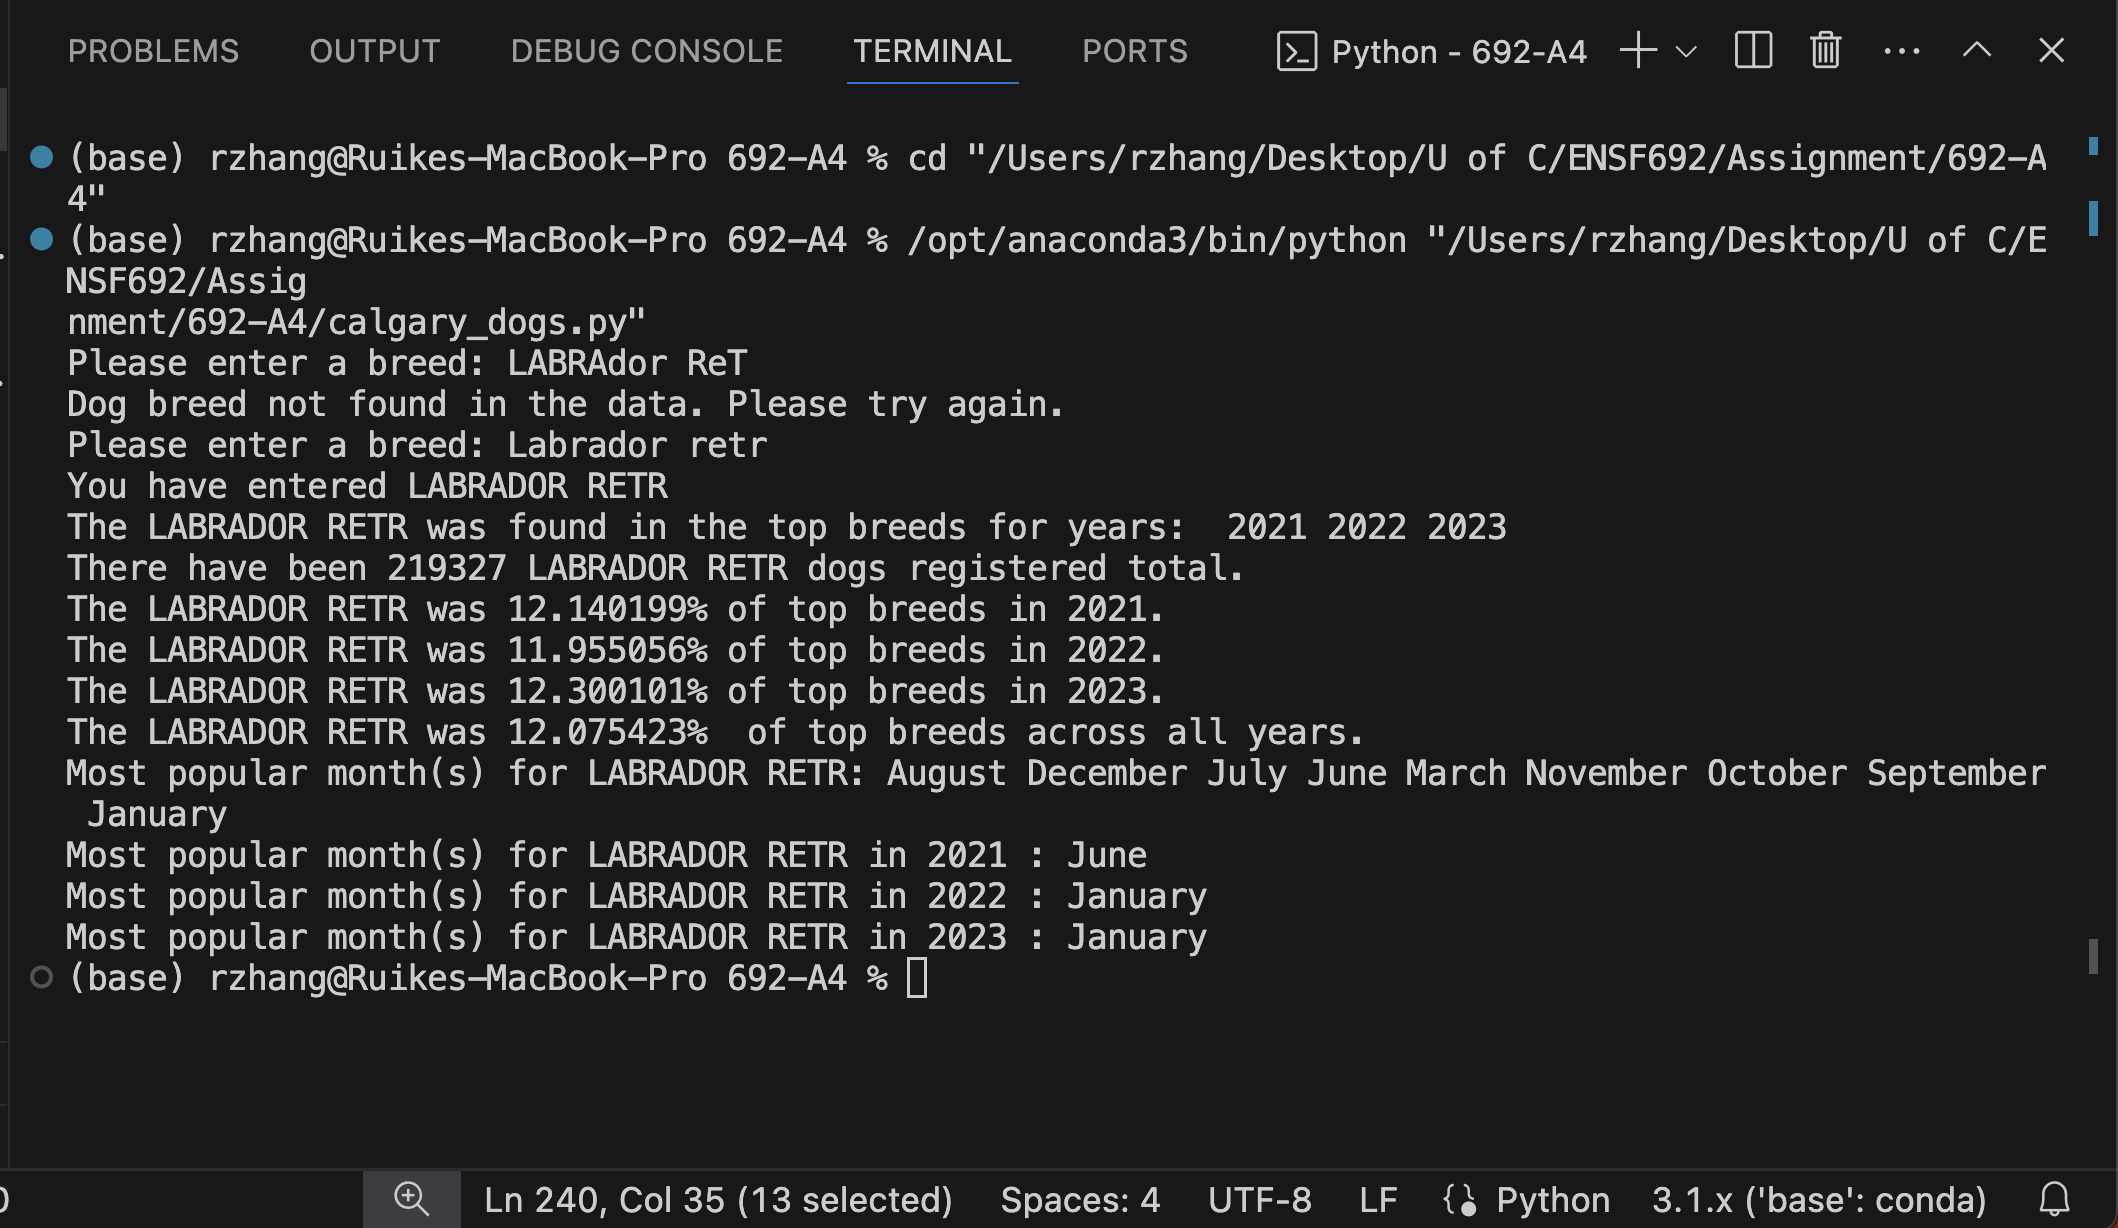
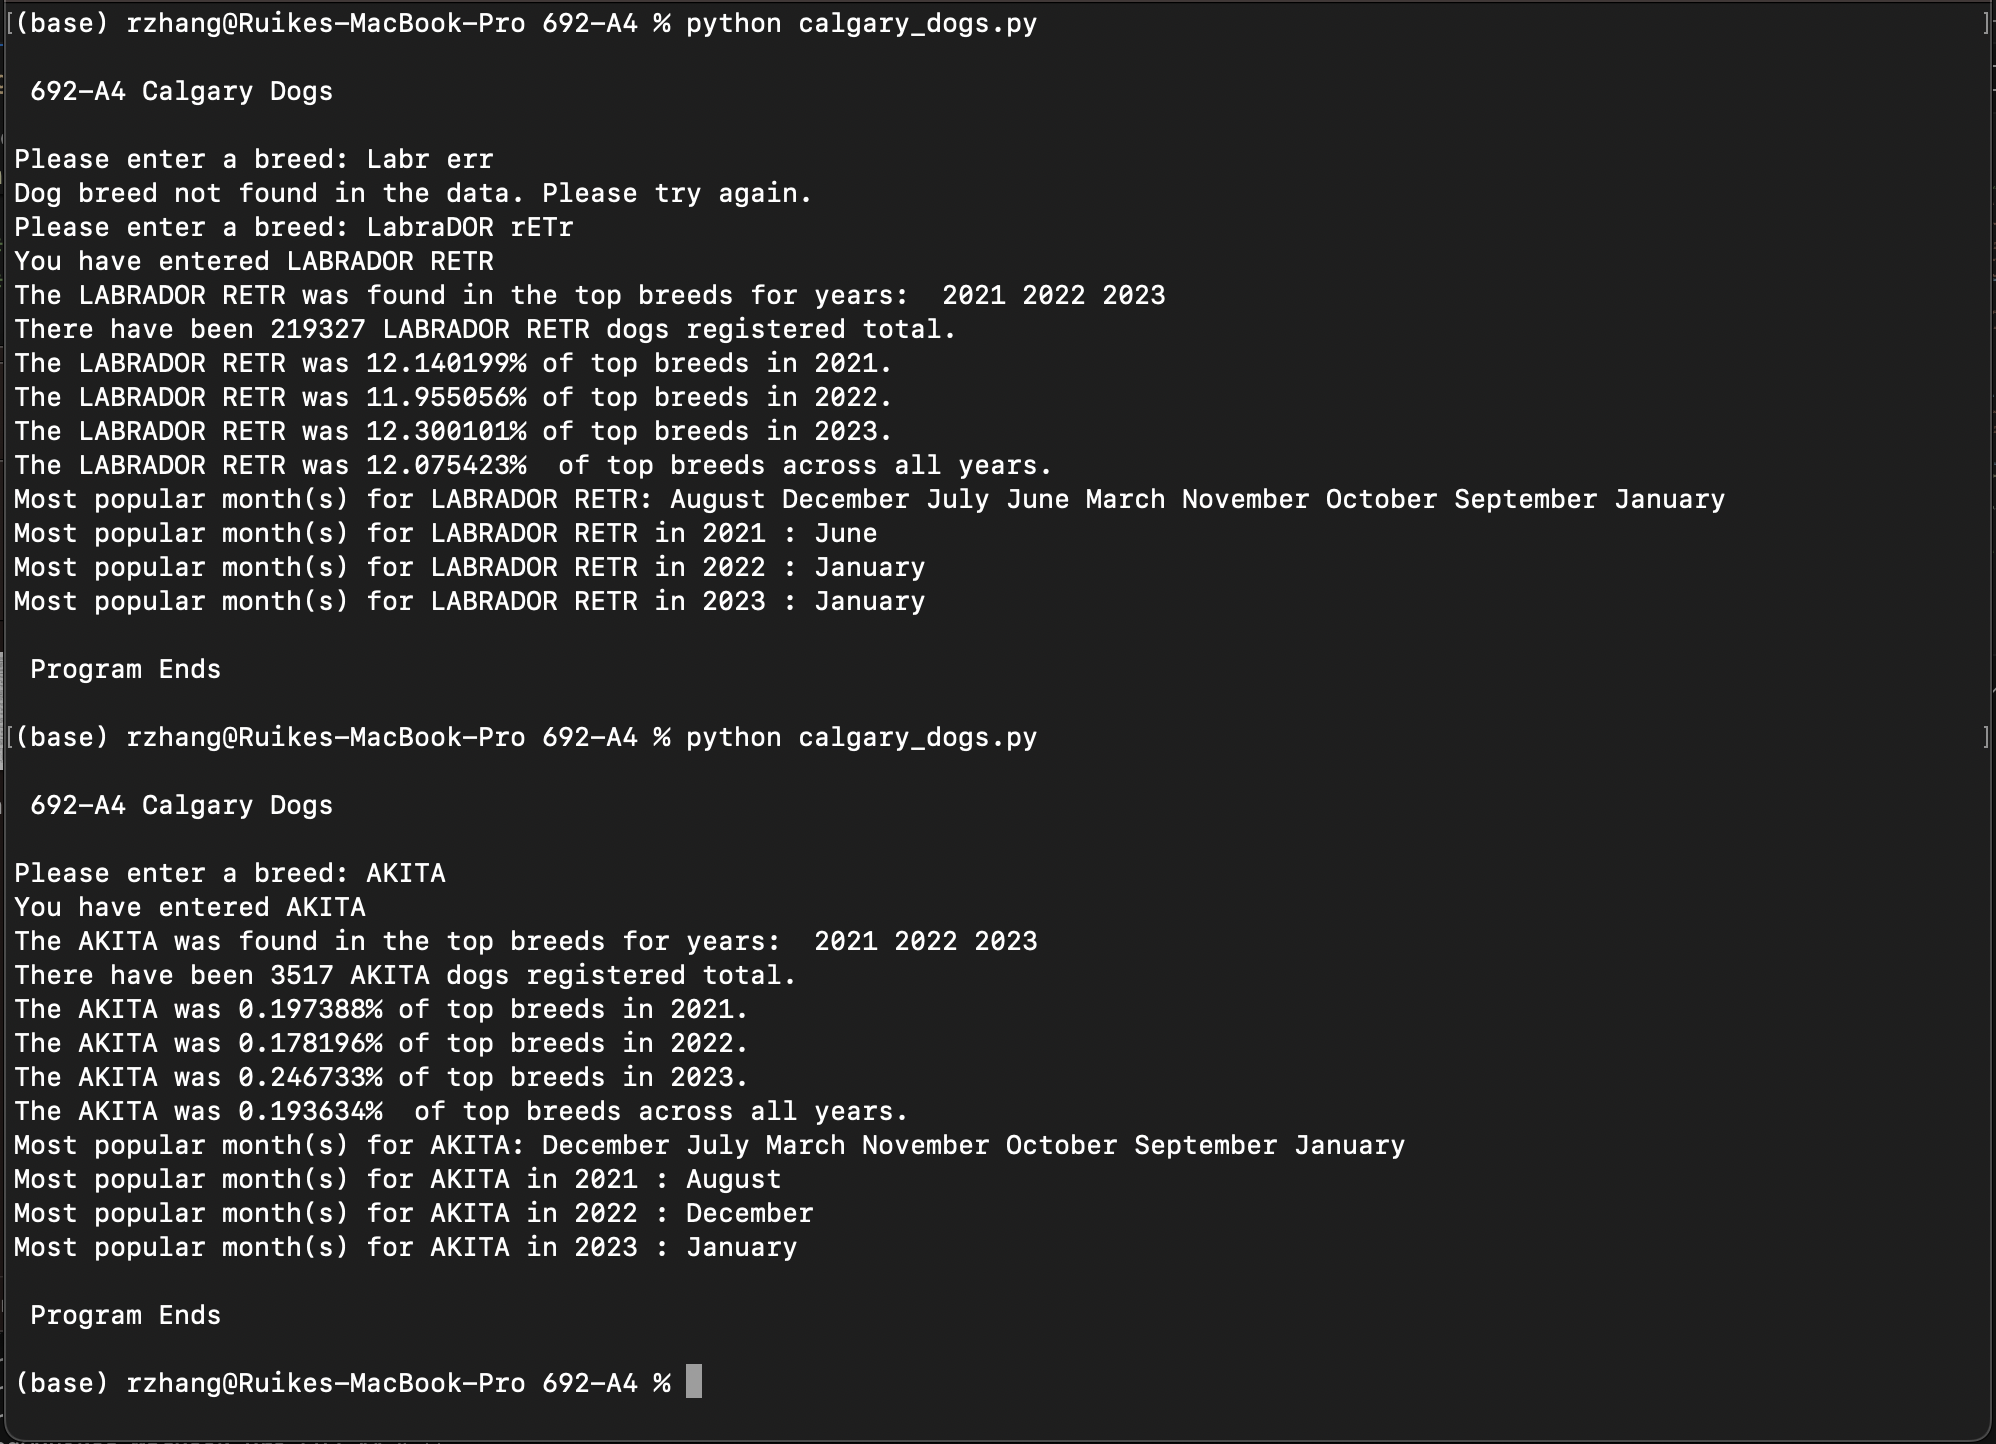
Update screen shot. Add some space before and after program run.

diff --git a/calgary_dogs.py b/calgary_dogs.py
@@ -241,6 +241,8 @@ def main():
 
     # Take user input and convert all char to capital.
     # If user input is not found, ask user to try again until a valid input is detected.
+
+    print("\n 692-A4 Calgary Dogs \n")
     while (not breed_found):
         user_input = input("Please enter a breed: ")
         user_input = user_input.upper()
@@ -270,6 +272,8 @@ def main():
     most_popular_month(dog_breed, all_data)
 
     most_popular_year_month(dog_breed, year_breed_found, all_data)
+
+    print("\n Program Ends \n")
 
 
 if __name__ == '__main__':
